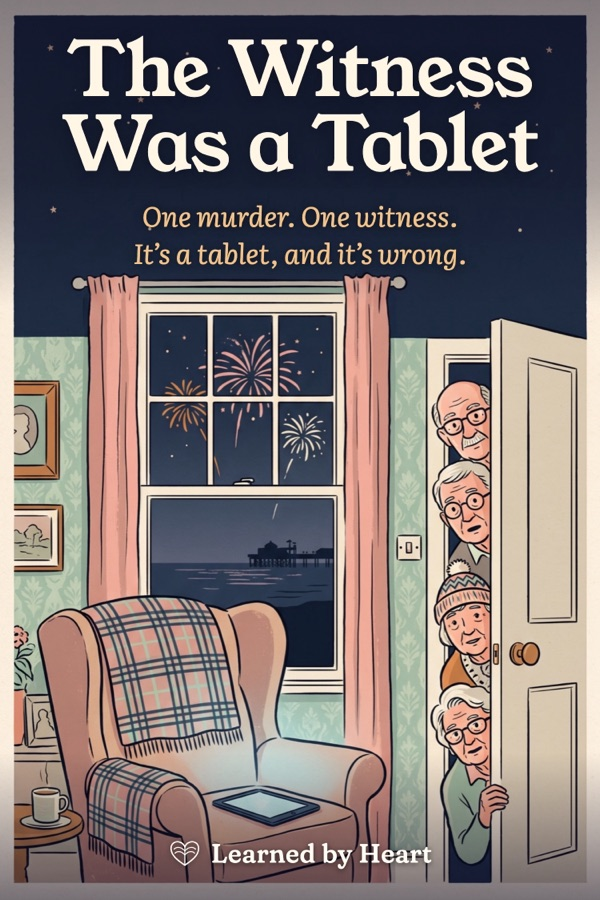
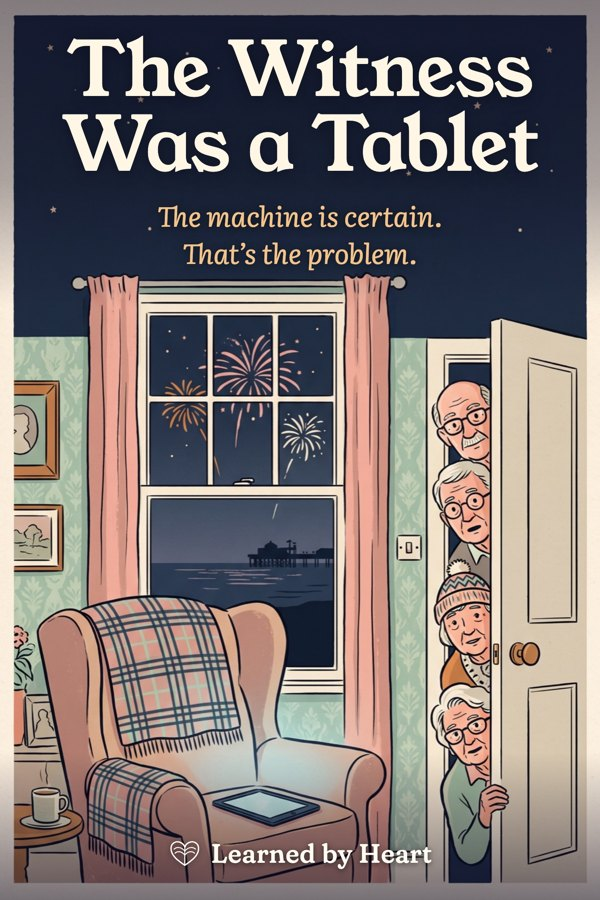
Reader cards use the real library covers and link to each free chapter

Changed region(s): [[0.21, 0.2178, 0.78, 0.3111]]

diff --git a/index.html b/index.html
@@ -457,7 +457,7 @@ footer nav{display:flex;flex-wrap:wrap;gap:.4rem 1.4rem;margin-bottom:.6rem}
   <div class="col">
     <h2 id="you-h">Written for one reader: you</h2>
     <p>We don't drop your name into a ready-made book. You tell us what you love reading and what you want to finally understand, and we write a new novel from scratch. We decide how it sounds, how dark it gets and where it's set from your answers. If there's something you'd rather not read about, say so and it won't be in there.</p>
-    <p>What She Left Behind and The Witness Was a Tablet are written. The others are ideas, to show what yours could be.</p>
+    <p>Each is a real book in our library, with chapter one free to read. Tap a cover to start.</p>
   </div>
   <div class="cards">
     <article class="card real">
@@ -482,42 +482,42 @@ footer nav{display:flex;flex-wrap:wrap;gap:.4rem 1.4rem;margin-bottom:.6rem}
     </article>
     <article class="card">
       <span class="stamp" style="background:var(--peach)">teaches history</span>
-      <h3><span class="cover"><img src="img/cover-six-queens.jpg" width="400" height="600" loading="lazy" alt=""><span>Six Queens' Worth of Thread<small>a novel</small></span></span></h3>
+      <h3><a class="cover lettered" href="library/six-queens-worth-of-thread/"><img src="img/library/six-queens-worth-of-thread.jpg" width="600" height="900" loading="lazy" alt=""><span>Six Queens' Worth of Thread<small>a novel</small></span></a></h3>
       <dl>
         <dt>Favourite authors</dt><dd>Philippa Gregory, Julia Quinn</dd>
         <dt>Loves</dt><dd>scandal, ballgowns, whispered rivalries</dd>
         <dt>Wants to learn</dt><dd>the Tudors, properly</dd>
-        <dt>We'd write</dt><dd class="story">A seamstress at Henry VIII's court sews for six queens, and keeps a little book of who's rising and who's about to fall.</dd>
+        <dt>So we wrote</dt><dd class="story">A seamstress at Henry VIII's court sews for six queens, and keeps a little book of who's rising and who's about to fall.</dd>
       </dl>
     </article>
     <article class="card">
       <span class="stamp" style="background:var(--mint)">teaches climate science</span>
-      <h3><span class="cover"><img src="img/cover-plankton.jpg" width="400" height="600" loading="lazy" alt=""><span>Plankton<small>a novel</small></span></span></h3>
+      <h3><a class="cover lettered" href="library/plankton/"><img src="img/library/plankton.jpg" width="600" height="900" loading="lazy" alt=""><span>Plankton<small>a novel</small></span></a></h3>
       <dl>
         <dt>Favourite authors</dt><dd>Sally Rooney, Claire Keegan</dd>
         <dt>Loves</dt><dd>quiet, intense love stories, Ireland, things left unsaid</dd>
         <dt>Wants to learn</dt><dd>climate science</dd>
-        <dt>We'd write</dt><dd class="story">Two ex-lovers spend a summer on a research boat off the west of Ireland, counting plankton and not talking about it. By September you know why the sea is warming, and what it does to the rain.</dd>
+        <dt>So we wrote</dt><dd class="story">Two ex-lovers spend a summer on a research boat off the west of Ireland, counting plankton and not talking about it. By September you know why the sea is warming, and what it does to the rain.</dd>
       </dl>
     </article>
     <article class="card">
       <span class="stamp" style="background:var(--pink)">teaches the body</span>
-      <h3><span class="cover"><img src="img/cover-hamstring.jpg" width="400" height="600" loading="lazy" alt=""><span>Hamstring<small>a novel</small></span></span></h3>
+      <h3><a class="cover lettered" href="library/ladies-who-ruck/"><img src="img/library/ladies-who-ruck.jpg" width="600" height="900" loading="lazy" alt=""><span>Ladies Who Ruck<small>a novel</small></span></a></h3>
       <dl>
-        <dt>Favourite authors</dt><dd>Nick Hornby, Roddy Doyle</dd>
-        <dt>Loves</dt><dd>football, underdogs, banter in the dressing room</dd>
-        <dt>Wants to learn</dt><dd>how the body works</dd>
-        <dt>We'd write</dt><dd class="story">A League Two striker with a dodgy hamstring meets a new physio who explains everything: muscle, sleep, and why his heart races before a penalty.</dd>
+        <dt>Favourite authors</dt><dd>Nick Hornby, Ted Lasso</dd>
+        <dt>Loves</dt><dd>underdogs, a laugh, a team that won't give up</dd>
+        <dt>Wants to learn</dt><dd>how muscles get stronger and what food actually does</dd>
+        <dt>So we wrote</dt><dd class="story">The worst women's rugby team in the league gets a new coach: the woman who runs the Tuesday slimming class. She has one season to learn what their bodies actually need.</dd>
       </dl>
     </article>
     <article class="card">
       <span class="stamp" style="background:var(--butter)">teaches business</span>
-      <h3><span class="cover"><img src="img/cover-plant-shop.jpg" width="400" height="600" loading="lazy" alt=""><span>The Plant Shop in Kyoto<small>a novel</small></span></span></h3>
+      <h3><a class="cover lettered" href="library/the-plant-shop-in-kyoto/"><img src="img/library/the-plant-shop-in-kyoto.jpg" width="600" height="900" loading="lazy" alt=""><span>The Plant Shop in Kyoto<small>a novel</small></span></a></h3>
       <dl>
         <dt>Favourite authors</dt><dd>Toshikazu Kawaguchi, Sosuke Natsukawa</dd>
         <dt>Loves</dt><dd>gentle stories, gardens, cats, Studio Ghibli</dd>
         <dt>Wants to learn</dt><dd>how to run a small business</dd>
-        <dt>We'd write</dt><dd class="story">A young woman inherits her grandmother's struggling plant shop, and learns pricing, cash flow and why the rent always comes first, with help from a very opinionated cat.</dd>
+        <dt>So we wrote</dt><dd class="story">Her café was full every day and still went under. Now she has one year to save her great-aunt's plant shop in Kyoto, and learn the cash flow that sank her the first time.</dd>
       </dl>
     </article>
   </div>
